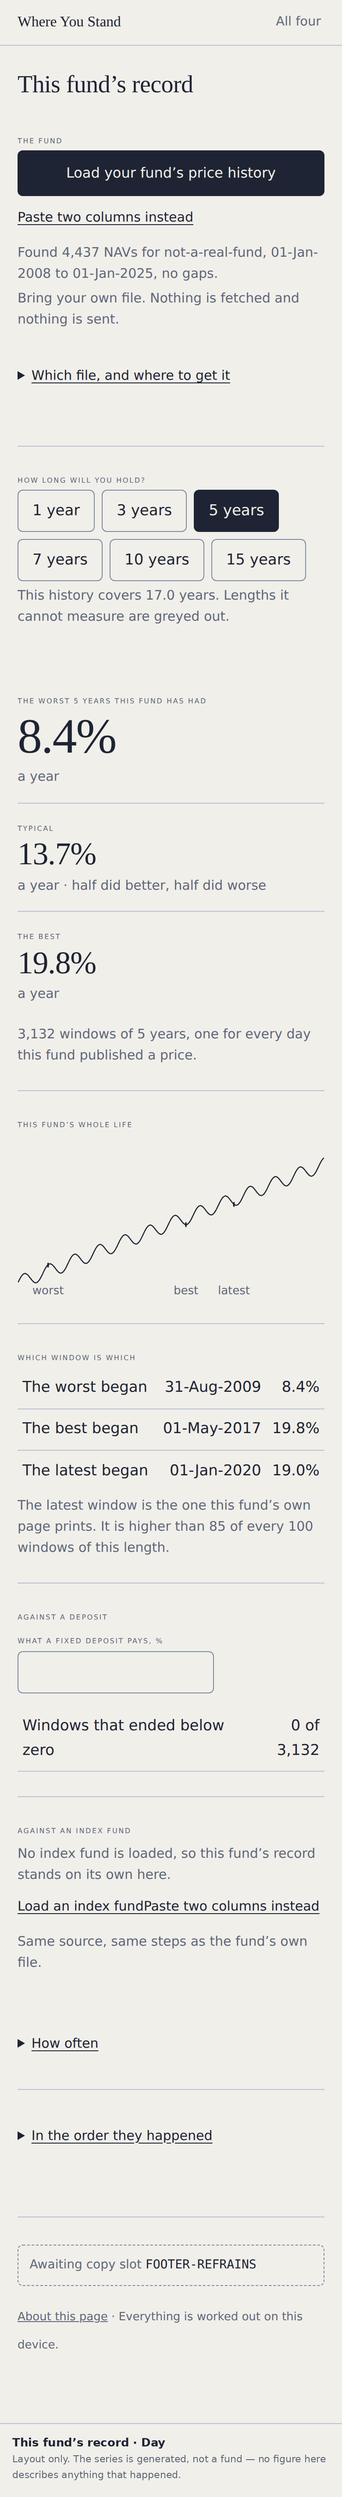
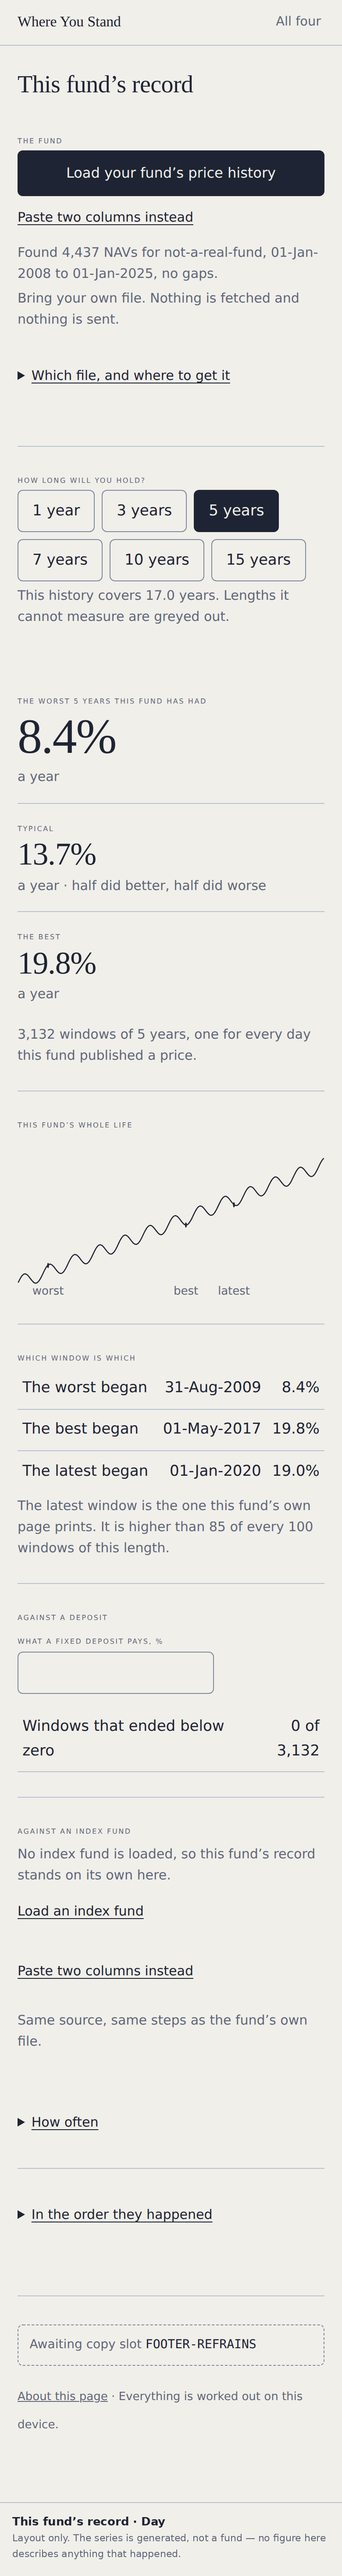
Twenty tall captures do not go into a README one at a time
contact.py lays a sheet's ten shots in a row at a common width, and
shoot.js builds one per palette at the end of every run. The README now
shows the set where it describes it, with a table of what state each
shot is in.

The sheet redraws the caption large. Every capture already carries a
strip composited by stamp.py, and at contact width that strip is a grey
smudge -- a caption that cannot be read is not a caption. The strips stay
on the full-size files where they are legible.

Laying ten screens side by side is a different instrument from looking
at one, and it caught something: shot 03 read "Load an index fundPaste
two columns instead", two inline buttons run together with no gap. That
door's markup is built in JS and had no whitespace text node between
them where the hand-written doors do. It had been on the record screen
since the paste landed and nobody reading one screen at a time saw it.

Fixed in the door rather than the caller: door() inserts the separation
itself, since it is the thing inserting the button. And the index door's
two ways in now sit in an .actions row like every other pair on the
product, with the whole block as the drop target rather than the row,
which is a strip too thin to aim a file at.

diff --git a/tool/v3/record.js b/tool/v3/record.js
@@ -166,6 +166,7 @@
        time the reading is. §5's conversation applies to the second file too. */
     if ($('#r-index-open')) {
       W.door({ openId: 'r-index-open', fileId: 'r-index-file', stateId: 'r-index-state',
+               dropId: 'r-index',
                onLoad: function (series, name) { R.index = series; R.indexName = name; run(); } });
     }
     drawLine();
@@ -216,10 +217,15 @@
    * says what it is missing rather than quietly leaving the question out. */
   function comparisonBlock(s) {
     if (!R.index) {
-      return '<div class="section"><p class="label">Against an index fund</p>' +
+      /* The two ways in sit in an actions row like every other pair on the
+         product, and the whole block is the drop target -- not the row, which
+         is a strip too thin to aim a file at. */
+      return '<div class="section" id="r-index"><p class="label">Against an index fund</p>' +
         '<p class="gloss">No index fund is loaded, so this fund’s record stands on its own here.</p>' +
+        '<div class="actions">' +
         '<button class="linkish" id="r-index-open" type="button">Load an index fund</button>' +
         '<input type="file" id="r-index-file" accept=".csv,.txt,.xlsx,.json" multiple hidden>' +
+        '</div>' +
         '<p class="gloss" id="r-index-state" aria-live="polite"></p>' +
         '<p class="gloss">Same source, same steps as the fund’s own file.</p></div>';
     }

diff --git a/tools/v3/shoot.js b/tools/v3/shoot.js
@@ -245,6 +245,24 @@ const ALL = SCREENS.concat(LEDGERS);
                                                (w.caption ? '::' + w.caption : ''))],
                { stdio: 'inherit' });
 
+  /* One sheet per palette, for the README. Twenty full-page phone captures
+   * cannot go into a document one at a time -- each is three to five thousand
+   * pixels tall, and a reader scrolls past the set rather than seeing it. The
+   * sheet redraws the caption at a size that survives the scale, because the
+   * strip on each capture is a grey smudge at contact width and a caption that
+   * cannot be read is not a caption. */
+  for (const sheet of ['Day', 'Night']) {
+    const mine = written.filter(w => w.sheet === sheet);
+    execFileSync('python3', [
+      path.join(__dirname, 'contact.py'),
+      '--out', path.join(OUT, 'CONTACT-' + sheet.toLowerCase() + '.png'),
+      '--title', 'Where You Stand — ten screens on the ' + sheet.toLowerCase() + ' sheet',
+      '--caption', CAPTION + '  Shots 07–10 hold made-up transactions. ' +
+                   'Open any shot full size from tool/v3/shots/ for its own caption.',
+      ...mine.map(w => w.file + '::' + w.name.replace(/-(day|night)\.png$/, ''))
+    ], { stdio: 'inherit' });
+  }
+
   fs.writeFileSync(path.join(OUT, 'INDEX.md'),
     '# The screenshot set\n\n' +
     'Generated by `node tools/v3/shoot.js`. Twenty shots at 390×844 and twice\n' +

diff --git a/tool/v3/shared.js b/tool/v3/shared.js
@@ -189,7 +189,14 @@
     pasteOpen.className = 'linkish';
     pasteOpen.id = opts.fileId + '-paste-open';
     pasteOpen.textContent = 'Paste two columns instead';
-    open.parentNode.insertBefore(pasteOpen, open.nextSibling);
+    /* A space, deliberately. Both buttons are inline, and where the door's own
+       markup is written by JS there is no whitespace text node between them --
+       the index door on Tool 2 rendered "Load an index fundPaste two columns
+       instead", run together with no gap. The door inserts this button, so the
+       door owns the separation rather than depending on how each caller happens
+       to have formatted its template. */
+    open.parentNode.insertBefore(document.createTextNode(' '), open.nextSibling);
+    open.parentNode.insertBefore(pasteOpen, open.nextSibling.nextSibling);
 
     var pasteBox = document.createElement('div');
     pasteBox.className = 'boxed paste-box';

diff --git a/tools/v3/contact.py b/tools/v3/contact.py
@@ -1,0 +1,123 @@
+"""One sheet holding the whole set, for the README.
+
+Twenty full-page phone captures cannot go into a document one at a time: each
+is three to five thousand pixels tall, and a reader scrolls past the set rather
+than seeing it. This lays one sheet's ten shots in a row at a common width, top
+aligned, so the screens can be compared at a glance and any one of them opened
+full size from `shots/`.
+
+THE CAPTION IS REDRAWN HERE, LARGE.
+
+Every shot already carries a caption strip composited beneath it by stamp.py,
+and at contact-sheet scale that strip is a grey smudge. A caption that cannot
+be read is not a caption. So the sheet carries its own, at a size that survives
+the scale, saying the same thing the strips say -- and the strips stay on the
+full-size files where they are legible.
+
+Called by tools/v3/shoot.js. Arguments: --out <file> --title <text>
+--caption <text> then "path::label" for each shot, in order.
+"""
+import sys
+from PIL import Image, ImageDraw, ImageFont
+
+PAPER = (241, 239, 234)
+INK = (30, 36, 51)
+MUTED = (95, 103, 121)
+RULE = (183, 193, 211)
+
+SHOT_W = 220          # each capture, scaled to this width
+GAP = 14
+PAD = 26
+LABEL_H = 22
+
+
+def font(size, bold=False):
+    name = ("/usr/share/fonts/truetype/dejavu/DejaVuSans-Bold.ttf" if bold
+            else "/usr/share/fonts/truetype/dejavu/DejaVuSans.ttf")
+    try:
+        return ImageFont.truetype(name, size)
+    except OSError:
+        return ImageFont.load_default()
+
+
+def wrap(draw, text, f, width):
+    words, lines, line = text.split(), [], ""
+    for w in words:
+        trial = (line + " " + w).strip()
+        if draw.textlength(trial, font=f) <= width:
+            line = trial
+        else:
+            if line:
+                lines.append(line)
+            line = w
+    if line:
+        lines.append(line)
+    return lines
+
+
+def build(out, title, caption, items):
+    shots = []
+    for path, label in items:
+        im = Image.open(path).convert("RGB")
+        h = round(im.height * SHOT_W / im.width)
+        shots.append((im.resize((SHOT_W, h), Image.LANCZOS), label))
+
+    width = PAD * 2 + len(shots) * SHOT_W + (len(shots) - 1) * GAP
+    inner = width - PAD * 2
+
+    f_title = font(20, bold=True)
+    f_note = font(15)
+    f_label = font(12)
+
+    scratch = ImageDraw.Draw(Image.new("RGB", (1, 1)))
+    note_lines = wrap(scratch, caption, f_note, inner)
+
+    head_h = PAD + 26 + 8 + len(note_lines) * 21 + PAD
+    body_h = LABEL_H + max(s.height for s, _ in shots)
+    out_im = Image.new("RGB", (width, head_h + body_h + PAD), PAPER)
+    d = ImageDraw.Draw(out_im)
+
+    y = PAD
+    d.text((PAD, y), title, font=f_title, fill=INK)
+    y += 26 + 8
+    for ln in note_lines:
+        d.text((PAD, y), ln, font=f_note, fill=MUTED)
+        y += 21
+    y += PAD - 6
+    d.line([(PAD, y), (width - PAD, y)], fill=RULE, width=1)
+
+    x = PAD
+    top = head_h
+    for im, label in shots:
+        d.text((x, top), label, font=f_label, fill=MUTED)
+        out_im.paste(im, (x, top + LABEL_H))
+        x += SHOT_W + GAP
+
+    out_im.save(out, optimize=True)
+    print("  sheet  " + out.rsplit("/", 1)[-1])
+
+
+def main():
+    args = sys.argv[1:]
+    for flag in ("--out", "--title", "--caption"):
+        if flag not in args:
+            print("usage: contact.py --out F --title T --caption C path::label ...",
+                  file=sys.stderr)
+            return 1
+    out = args[args.index("--out") + 1]
+    title = args[args.index("--title") + 1]
+    caption = args[args.index("--caption") + 1]
+    items = []
+    for a in args:
+        if "::" in a:
+            path, _, label = a.partition("::")
+            items.append((path, label))
+    if not items:
+        print("nothing to lay out", file=sys.stderr)
+        return 1
+    build(out, title, caption, items)
+    return 0
+
+
+if __name__ == "__main__":
+    sys.exit(main())

diff --git a/tool/v3/README.md b/tool/v3/README.md
@@ -19,7 +19,7 @@ screens are still live at `../`; these replace them.
 | `tokens.html`, `tokens.js` | The token sheet, built from the build |
 | *(shared)* `sim/upload.js` | The §5 door: its questions, its stitching, its messages |
 | *(shared)* `sim/workbook.js` | Reads an .xlsx without a library |
-| `shots/` | The twenty screenshots — run `node tools/v3/shoot.js` |
+| `shots/` | The twenty screenshots and two contact sheets — `node tools/v3/shoot.js` |
 | `deck.js` | Generated. Do not edit — run `python3 tools/v3/build_deck.py` |
 
 ```
@@ -386,6 +386,52 @@ They carry **their own caption**. The transactions in them are made up whether
 or not `--fund` pointed at a real NAV history, and a picture of somebody's
 transactions is not a thing to leave ambiguous, so `stamp.py` takes a per-shot
 caption and these four override the set's.
+
+### The set
+
+Ten screens on the day sheet, then the same ten at night. Each thumbnail is a
+full-page phone capture; open `shots/` for any one of them at size.
+
+![The day sheet](shots/CONTACT-day.png)
+
+![The night sheet](shots/CONTACT-night.png)
+
+`contact.py` builds these two at the end of every run. Twenty captures three to
+five thousand pixels tall cannot go into a document one at a time — a reader
+scrolls past the set rather than seeing it — and at contact width the caption
+strip composited on each capture is a grey smudge. A caption that cannot be
+read is not a caption, so the sheet **redraws it large**, and the strips stay
+on the full-size files where they are legible.
+
+| Shot | Screen | What state |
+|---|---|---|
+| `01-home` | Home | the four tools |
+| `02-about` | About this page | the checkable facts |
+| `03-record` | This fund's record | a five-year reading, with the life-line |
+| `04-stand` | My money in this fund | a reading against the fund's own record |
+| `05-plan` | My plan, tested | three landings and two levers |
+| `06-mine` | My return | XIRR, with the inflation line filled |
+| `07-mine-spreadsheet` | My return | the door open: paste, CSV, or drop |
+| `08-mine-asking` | My return | which words mean money out, nothing ticked |
+| `09-mine-read` | My return | answered, one line reading Money out |
+| `10-stand-asking` | My money in this fund | the same question, the same door |
+
+Each is written twice, `-day` and `-night`.
+
+### One thing the contact sheet caught
+
+Laying ten screens side by side is a different instrument from looking at one.
+Shot 03 showed **Load an index fundPaste two columns instead** — two inline
+buttons run together with no gap, because that door's markup is built in JS and
+had no whitespace text node between them where the hand-written doors do. It had
+been on the record screen since the paste landed and nobody reading one screen
+at a time had seen it.
+
+Fixed in two places: `door()` now inserts the separation itself, since it is the
+thing inserting the button and should not depend on how each caller formatted
+its template; and the index door's two ways in sit in an `.actions` row like
+every other pair on the product, with the whole block as the drop target rather
+than the row, which is a strip too thin to aim a file at.
 
 **On real data.** Step 7 asks for the set on real data, and no NAV source is
 reachable from the build environment: every request to AMFI and to the public
